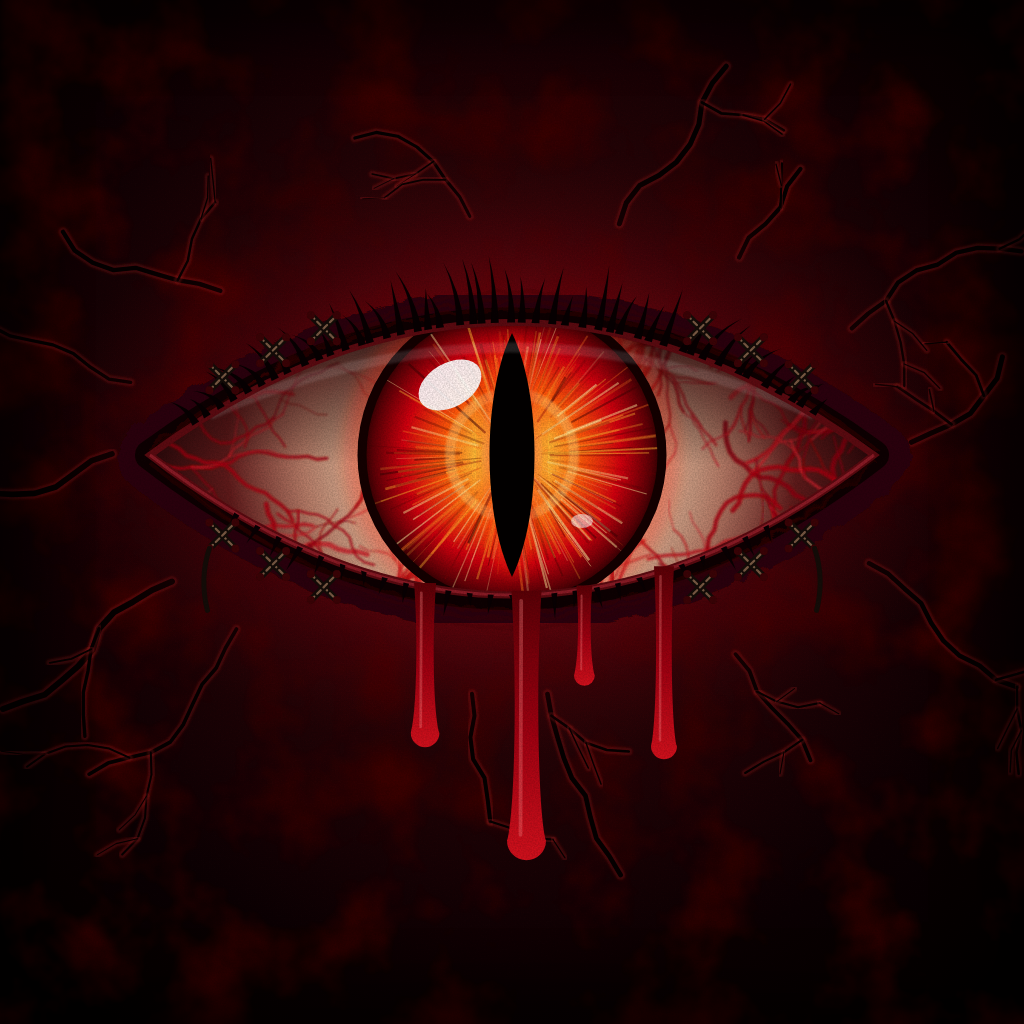
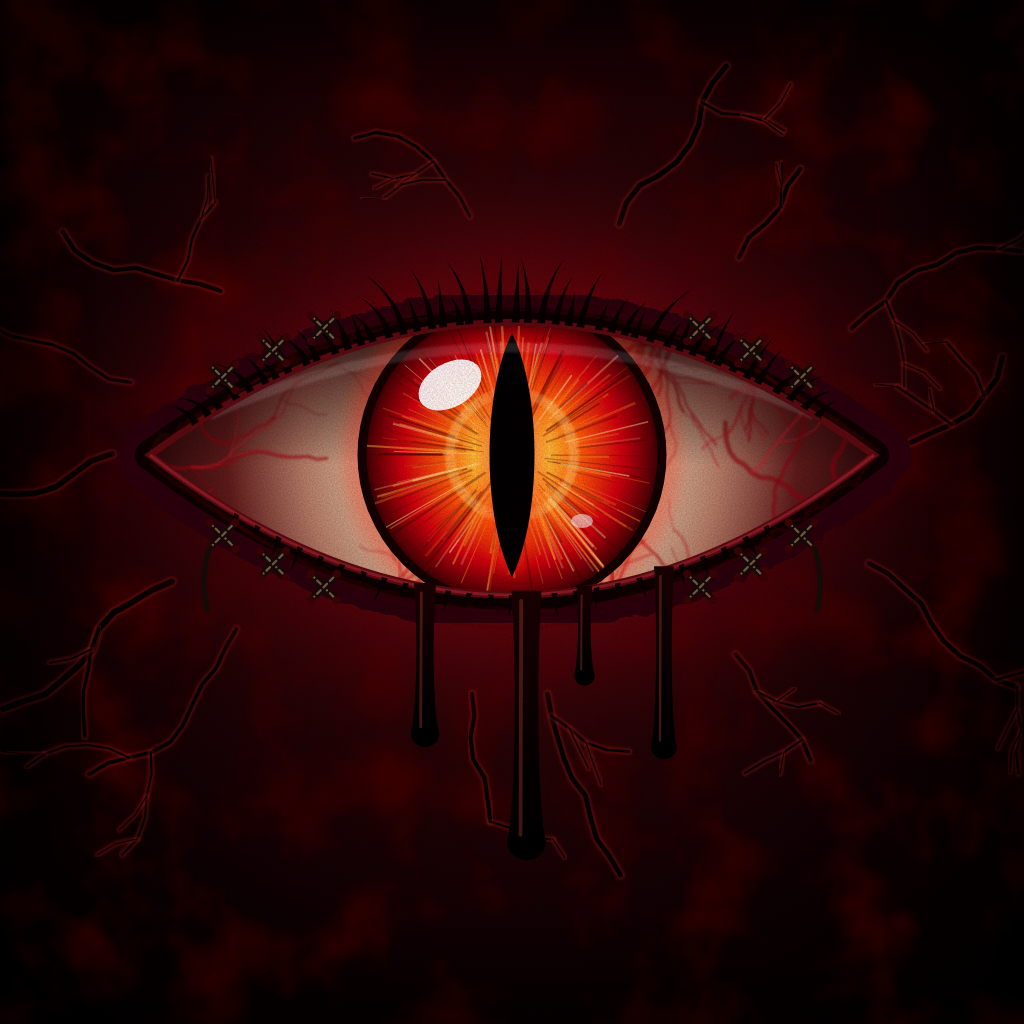
Arte compatível com a moderação do Roblox: lágrimas de tinta, sem sangue no cenário; versão reserva limpa
Claude-Session: https://claude.ai/code/session_01AyVVf3kJuYL5MPT5UAMbDx

diff --git a/arte/fonte/gen.py b/arte/fonte/gen.py
@@ -4,8 +4,12 @@ W=1024; CX, CY = 512, 455
 L, R = 150, 874          # cantos do olho
 TOPC, BOTC = 190, 735    # pontos de controle das pálpebras
 font = base64.b64encode(open('creepster.woff2','rb').read()).decode()
+bebas = base64.b64encode(open('bebas.woff2','rb').read()).decode()
 with_text = sys.argv[1] == 'text'
 eye_only = sys.argv[1] == 'eye'
+import os
+SAFE = os.environ.get('SAFE') == '1'
+CHARM = os.environ.get('CHARM') == '1'
 out=[]
 def P(s): out.append(s)
 
@@ -21,7 +25,7 @@ almond=f"M {L} {CY} Q {CX} {TOPC} {R} {CY} Q {CX} {BOTC} {L} {CY} Z"
 
 P(f'''<svg xmlns="http://www.w3.org/2000/svg" width="{W}" height="{W}" viewBox="0 0 {W} {W}">
 <defs>
-<style>@font-face{{font-family:Creep;src:url(data:font/woff2;base64,{font}) format('woff2');}}</style>
+<style>@font-face{{font-family:Creep;src:url(data:font/woff2;base64,{font}) format('woff2');}} @font-face{{font-family:Bebas;src:url(data:font/woff2;base64,{bebas}) format('woff2');}}</style>
 <radialGradient id="bg" cx="50%" cy="44%" r="70%">
  <stop offset="0" stop-color="#5c0b10"/><stop offset="0.35" stop-color="#2a0407"/><stop offset="0.75" stop-color="#0b0103"/><stop offset="1" stop-color="#030001"/>
 </radialGradient>
@@ -29,7 +33,7 @@ P(f'''<svg xmlns="http://www.w3.org/2000/svg" width="{W}" height="{W}" viewBox="
  <stop offset="0" stop-color="#ff2a1a" stop-opacity="0.75"/><stop offset="0.5" stop-color="#b00010" stop-opacity="0.35"/><stop offset="1" stop-color="#600008" stop-opacity="0"/>
 </radialGradient>
 <radialGradient id="sclera" cx="{CX}" cy="{CY}" r="380" gradientUnits="userSpaceOnUse">
- <stop offset="0" stop-color="#f3e4cc"/><stop offset="0.36" stop-color="#e0c4a4"/><stop offset="0.55" stop-color="#b47a66"/><stop offset="0.75" stop-color="#5e1a1a"/><stop offset="1" stop-color="#1e0406"/>
+ <stop offset="0" stop-color="#f3e4cc"/><stop offset="0.36" stop-color="#e0c4a4"/><stop offset="0.55" stop-color="#b47a66"/><stop offset="0.75" stop-color="{'#3a2422' if SAFE else '#5e1a1a'}"/><stop offset="1" stop-color="#1e0406"/>
 </radialGradient>
 <radialGradient id="iris" cx="{CX}" cy="{CY}" r="152" gradientUnits="userSpaceOnUse">
  <stop offset="0" stop-color="#fff2a0"/><stop offset="0.22" stop-color="#ffc23a"/><stop offset="0.45" stop-color="#ff5a0a"/><stop offset="0.72" stop-color="#d0000e"/><stop offset="0.92" stop-color="#5a0006"/><stop offset="1" stop-color="#200002"/>
@@ -39,8 +43,9 @@ P(f'''<svg xmlns="http://www.w3.org/2000/svg" width="{W}" height="{W}" viewBox="
  <stop offset="0.85" stop-color="#000" stop-opacity="0"/><stop offset="1" stop-color="#1a0204" stop-opacity="0.75"/>
 </linearGradient>
 <linearGradient id="blood" x1="0" y1="0" x2="0" y2="1">
- <stop offset="0" stop-color="#5a0006"/><stop offset="0.5" stop-color="#9c0010"/><stop offset="1" stop-color="#d0101c"/>
+ {'<stop offset="0" stop-color="#1a0204"/><stop offset="0.6" stop-color="#070001"/><stop offset="1" stop-color="#000000"/>' if CHARM else '<stop offset="0" stop-color="#5a0006"/><stop offset="0.5" stop-color="#9c0010"/><stop offset="1" stop-color="#d0101c"/>'}
 </linearGradient>
+<filter id="inkGlow" x="-100%" y="-20%" width="300%" height="140%"><feMorphology in="SourceAlpha" operator="dilate" radius="2" result="d"/><feGaussianBlur in="d" stdDeviation="5" result="b"/><feFlood flood-color="#ff2a1a" flood-opacity="0.8"/><feComposite in2="b" operator="in" result="g"/><feMerge><feMergeNode in="g"/><feMergeNode in="SourceGraphic"/></feMerge></filter>
 <linearGradient id="txt" x1="0" y1="0" x2="0" y2="1">
  <stop offset="0" stop-color="#ff4a3a"/><stop offset="0.5" stop-color="#d00818"/><stop offset="1" stop-color="#6a0008"/>
 </linearGradient>
@@ -108,12 +113,12 @@ def vein(x,y,ang,length,width,depth):
         if math.hypot(x-CX,y-CY)<150: break
     d="M "+" L ".join(f"{a:.1f} {b:.1f}" for a,b in pts)
     col=random.choice(["#a3000e","#b8101a","#8a0010","#c4202a"])
-    P(f'<path d="{d}" fill="none" stroke="{col}" stroke-width="{width:.2f}" stroke-linecap="round" stroke-linejoin="round" opacity="0.85" filter="url(#soft)"/>')
+    P(f'<path d="{d}" fill="none" stroke="{col}" stroke-width="{width*(0.5 if SAFE else 1):.2f}" stroke-linecap="round" stroke-linejoin="round" opacity="{0.4 if SAFE else (0.6 if CHARM else 0.85)}" filter="url(#soft)"/>')
     if depth>0:
         for _ in range(random.randint(1,3)):
             k=random.randint(1,max(1,len(pts)-1))
             vein(pts[k][0],pts[k][1],ang+random.choice([-1,1])*random.uniform(0.4,1.0),length*0.55,width*0.6,depth-1)
-for i in range(46):
+for i in range(12 if SAFE else (26 if CHARM else 46)):
     a=random.uniform(0,math.tau)
     sx=CX+math.cos(a)*390; sy=CY+math.sin(a)*190
     ang=math.atan2(CY-sy,CX-sx)+random.uniform(-0.35,0.35)
@@ -188,7 +193,7 @@ def stitches(side):
             # linha arrebentada pendurada
             y=(1-t)**2*CY+2*(1-t)*t*BOTC+t*t*CY+43
             P(f'<path d="M {xt+13*side:.1f} {y:.1f} q {side*10} 30 {side*2} 62" fill="none" stroke="#140c08" stroke-width="5" stroke-linecap="round"/>')
-stitches(-1); stitches(1)
+if not SAFE: stitches(-1); stitches(1)
 
 # lágrimas de sangue
 def drip(t, length, w):
@@ -196,19 +201,20 @@ def drip(t, length, w):
     y=(1-t)**2*CY+2*(1-t)*t*BOTC+t*t*CY - 4
     e=y+length
     P(f'<path d="M {x-w:.1f} {y:.1f} C {x-w*0.6:.1f} {y+length*0.4:.1f} {x-w*0.8:.1f} {e-w*1.6:.1f} {x-w*1.3:.1f} {e:.1f} A {w*1.3:.1f} {w*1.3:.1f} 0 1 0 {x+w*1.3:.1f} {e:.1f} C {x+w*0.8:.1f} {e-w*1.6:.1f} {x+w*0.6:.1f} {y+length*0.4:.1f} {x+w:.1f} {y:.1f} Z" fill="url(#blood)"/>')
-    P(f'<path d="M {x-w*0.35:.1f} {y+10:.1f} L {x-w*0.4:.1f} {e-6:.1f}" stroke="#ff8080" stroke-opacity="0.35" stroke-width="{max(1.5,w*0.25):.1f}" stroke-linecap="round"/>')
+    P(f'<path d="M {x-w*0.35:.1f} {y+10:.1f} L {x-w*0.4:.1f} {e-6:.1f}" stroke="{'#ff6050' if CHARM else '#ff8080'}" stroke-opacity="{0.25 if CHARM else 0.35}" stroke-width="{max(1.5,w*0.25):.1f}" stroke-linecap="round"/>')
 short = with_text or eye_only
+if SAFE: drip = lambda *a: None
 drip(0.38, 150 if not short else 110, 11)
 drip(0.52, 250 if not short else 160, 15)
 drip(0.6, 90, 8)
 drip(0.71, 180 if not short else 120, 10)
 
 if with_text:
-    for i in range(9):
+    for i in range(0 if (SAFE or CHARM) else 9):
         x=CX-330+i*82+random.uniform(-20,20); w=random.uniform(4,8)
         ln=random.uniform(18,50)
         P(f'<path d="M {x-w:.1f} 952 C {x-w:.1f} {952+ln*0.6:.1f} {x-w*1.3:.1f} {952+ln:.1f} {x:.1f} {952+ln+w:.1f} C {x+w*1.3:.1f} {952+ln:.1f} {x+w:.1f} {952+ln*0.6:.1f} {x+w:.1f} 952 Z" fill="#8a0010"/>')
-    P(f'<g filter="url(#textGlow)"><text x="{CX}" y="958" text-anchor="middle" font-family="Creep" font-size="232" letter-spacing="6" fill="url(#txt)" stroke="#120002" stroke-width="7" paint-order="stroke">BLINDER</text></g>')
+    P(f'<g filter="url(#textGlow)"><text x="{CX}" y="958" text-anchor="middle" font-family="{'Bebas' if SAFE else 'Creep'}" font-size="{290 if SAFE else 232}" letter-spacing="{24 if SAFE else 6}" fill="url(#txt)" stroke="#120002" stroke-width="7" paint-order="stroke">BLINDER</text></g>')
 
 # grão e vinheta final
 if not eye_only: P(f'<rect width="{W}" height="{W}" filter="url(#grit)" opacity="0.16"/>')

diff --git a/arte/fonte/banner.py b/arte/fonte/banner.py
@@ -1,10 +1,13 @@
-import math, random, base64
+import math, random, base64, os
+SAFE = os.environ.get('SAFE') == '1'
+CHARM = os.environ.get('CHARM') == '1'
 random.seed(13)
 W,H=1920,1080
 VX,VY=1400,520     # ponto de fuga
 K=560
 creep=base64.b64encode(open('creepster.woff2','rb').read()).decode()
 elite=base64.b64encode(open('elite.woff2','rb').read()).decode()
+bebas=base64.b64encode(open('bebas.woff2','rb').read()).decode()
 o=[]
 def P(x): o.append(x)
 def pr(x,y,z): return (VX+x*K/z, VY-y*K/z)
@@ -21,7 +24,7 @@ def light(z, x=0, y=0):
 
 P(f'''<svg xmlns="http://www.w3.org/2000/svg" xmlns:xlink="http://www.w3.org/1999/xlink" width="{W}" height="{H}" viewBox="0 0 {W} {H}">
 <defs>
-<style>@font-face{{font-family:Creep;src:url(data:font/woff2;base64,{creep});}} @font-face{{font-family:Elite;src:url(data:font/woff2;base64,{elite});}}</style>
+<style>@font-face{{font-family:Creep;src:url(data:font/woff2;base64,{creep});}} @font-face{{font-family:Elite;src:url(data:font/woff2;base64,{elite});}} @font-face{{font-family:Bebas;src:url(data:font/woff2;base64,{bebas});}}</style>
 <linearGradient id="bg" x1="0" y1="0" x2="1" y2="0"><stop offset="0" stop-color="#0a0103"/><stop offset="0.5" stop-color="#16040a"/><stop offset="1" stop-color="#0c0204"/></linearGradient>
 <radialGradient id="cone" cx="50%" cy="0%" r="100%"><stop offset="0" stop-color="#ffd59a" stop-opacity="0.45"/><stop offset="0.6" stop-color="#ffb070" stop-opacity="0.08"/><stop offset="1" stop-color="#ffb070" stop-opacity="0"/></radialGradient>
 <radialGradient id="redfog" cx="50%" cy="50%" r="50%"><stop offset="0" stop-color="#d0101a" stop-opacity="0.55"/><stop offset="1" stop-color="#600008" stop-opacity="0"/></radialGradient>
@@ -86,7 +89,7 @@ for side in (-1,1):
         hp=pr(side,-0.1,z+w-0.05)
         P(f'<rect x="{hp[0]-2:.1f}" y="{hp[1]-14/z:.1f}" width="{max(2,5/z):.1f}" height="{28/z:.1f}" fill="#9a9a9a" opacity="{l:.2f}"/>')
         # um armário entreaberto com mão saindo
-        if n==2 and side==1:
+        if n==2 and side==1 and not SAFE:
             dd=pr(side-0.12,0.75,z+0.02); de=pr(side-0.12,-1,z+0.02)
             poly([a,dd,de,d],'#050203')
             for f in range(4):
@@ -94,12 +97,12 @@ for side in (-1,1):
                 P(f'<path d="M {fx:.1f} {fy:.1f} q {-26/z:.1f} {4/z:.1f} {-40/z:.1f} {16/z:.1f}" stroke="#c9a68c" stroke-width="{9/z:.1f}" stroke-linecap="round" fill="none"/>')
         z+=w+0.02; n+=1
     # sangue escorrendo na parede
-    for _ in range(3):
+    for _ in range(0 if (SAFE or CHARM) else 3):
         zz=random.uniform(1.2,3.4); yy=random.uniform(0.2,0.9)
         p0=pr(side,yy,zz); p1=pr(side,yy-random.uniform(0.3,0.8),zz)
         P(f'<line x1="{p0[0]:.1f}" y1="{p0[1]:.1f}" x2="{p1[0]:.1f}" y2="{p1[1]:.1f}" stroke="#7a0008" stroke-width="{10/zz:.1f}" stroke-linecap="round" opacity="0.85"/>')
 # poças e manchas de sangue arrastadas no chão
-for i in range(16):
+for i in range(0 if (SAFE or CHARM) else 16):
     z=ZN+0.25+i*0.17; x=math.sin(i*0.9)*0.12+0.12
     cxp,cyp=pr(x,-1,z); rx=random.uniform(28,60)/z; ry=rx*0.28
     P(f'<ellipse cx="{cxp:.1f}" cy="{cyp:.1f}" rx="{rx:.1f}" ry="{ry:.1f}" fill="#5a0006" opacity="{0.85-i*0.03:.2f}" filter="url(#blur4)"/>')
@@ -141,7 +144,7 @@ P('</g>')
 b0=rot(S(-0.04,0.955),0.35); b1=rot(S(0.04,0.955),0.35)
 P(f'<line x1="{b0[0]:.1f}" y1="{b0[1]:.1f}" x2="{b1[0]:.1f}" y2="{b1[1]:.1f}" stroke="#d8d0c0" stroke-width="{h*0.018:.1f}" opacity="0.8"/>')
 m0=rot(S(-0.022,0.918),0.35); m1=rot(S(0.022,0.918),0.35)
-P(f'<path d="M {m0[0]:.1f} {m0[1]:.1f} Q {(m0[0]+m1[0])/2:.1f} {(m0[1]+m1[1])/2+h*0.012:.1f} {m1[0]:.1f} {m1[1]:.1f}" stroke="#ff2a1a" stroke-width="{h*0.006:.1f}" fill="none"/>')
+if not (SAFE or CHARM): P(f'<path d="M {m0[0]:.1f} {m0[1]:.1f} Q {(m0[0]+m1[0])/2:.1f} {(m0[1]+m1[1])/2+h*0.012:.1f} {m1[0]:.1f} {m1[1]:.1f}" stroke="#ff2a1a" stroke-width="{h*0.006:.1f}" fill="none"/>')
 P(f'<ellipse cx="{fb[0]}" cy="{fb[1]+4}" rx="{h*0.25:.1f}" ry="{h*0.03:.1f}" fill="#000" opacity="0.7" filter="url(#blur4)"/>')
 
 # névoa e escuridão
@@ -150,14 +153,14 @@ P(f'<rect width="{W}" height="{H}" fill="url(#leftDark)"/>')
 
 # olho gigante observando (canto esquerdo)
 P(f'<circle cx="560" cy="330" r="380" fill="#b00010" opacity="0.28" filter="url(#blur40)"/>')
-P('<image href="eye.svg" x="40" y="-200" width="1040" height="1040" opacity="0.96"/>')
+P(f'<image href="{"eye_safe.svg" if SAFE else ("eye_charm.svg" if CHARM else "eye.svg")}" x="40" y="-200" width="1040" height="1040" opacity="0.96"/>')
 
 # título
-for i in range(8):
+for i in range(0 if (SAFE or CHARM) else 8):
     x=560-320+i*90+random.uniform(-20,20); w=random.uniform(4,9); ln=random.uniform(20,60)
     if i == 5: continue
     P(f'<path d="M {x-w:.1f} 872 C {x-w:.1f} {872+ln*0.6:.1f} {x-w*1.3:.1f} {872+ln:.1f} {x:.1f} {872+ln+w:.1f} C {x+w*1.3:.1f} {872+ln:.1f} {x+w:.1f} {872+ln*0.6:.1f} {x+w:.1f} 872 Z" fill="#8a0010"/>')
-P(f'<g filter="url(#textGlow)"><text x="560" y="880" text-anchor="middle" font-family="Creep" font-size="250" letter-spacing="8" fill="url(#txt)" stroke="#120002" stroke-width="8" paint-order="stroke">BLINDER</text></g>')
+P(f'<g filter="url(#textGlow)"><text x="560" y="880" text-anchor="middle" font-family="{'Bebas' if SAFE else 'Creep'}" font-size="{300 if SAFE else 250}" letter-spacing="{30 if SAFE else 8}" fill="url(#txt)" stroke="#120002" stroke-width="8" paint-order="stroke">BLINDER</text></g>')
 P('<text x="560" y="1000" text-anchor="middle" font-family="Elite" font-size="44" letter-spacing="10" fill="#e8dccb">ELE NÃO VÊ.  ELE <tspan fill="#ff3020">ESCUTA.</tspan></text>')
 
 P(f'<rect width="{W}" height="{H}" fill="url(#vig)"/>')
